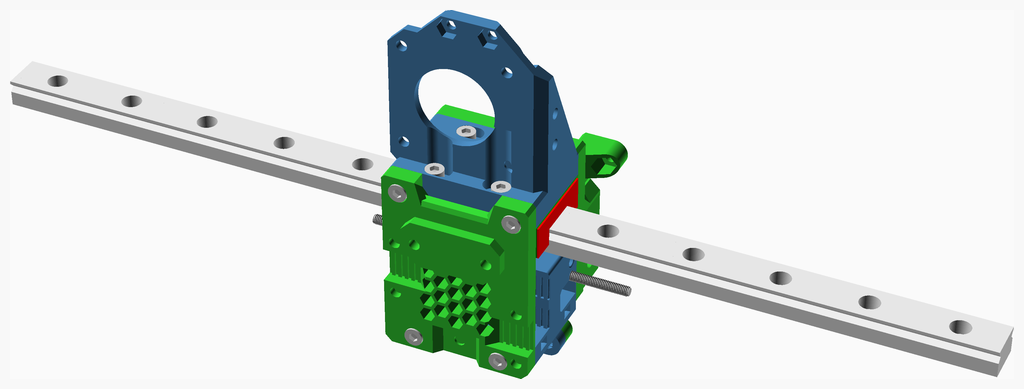
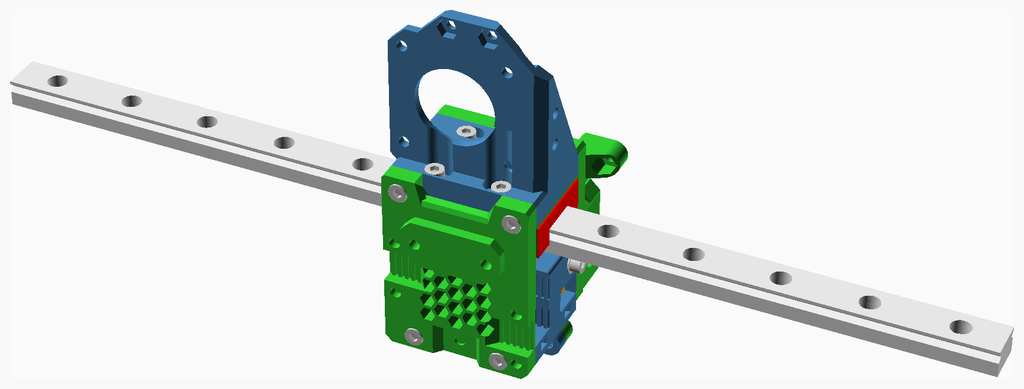
EVA update after build.

Changed region(s): [[0.5312, 0.6478, 0.625, 0.7712], [0.3438, 0.5553, 0.375, 0.5861]]

diff --git a/EVA/readme.md b/EVA/readme.md
@@ -58,7 +58,7 @@ as are all EVA community contributions.
 |   1  |   .  |    1  | EVA_MC_top_mgn12.stl |
 |   1  |   .  |    1  | EVA_MC_top_orbiter_mgn12.stl |
 |   1  |   .  |    1  | EVA_MC_top_titan_mgn12.stl |
-|   1  |   .  |    1  | X_Carriage_Belt_Clamp.stl |
+|   1  |   .  |    1  | X_Carriage_Belt_Clamp_EVA.stl |
 |   2  |   .  |    2  | X_Carriage_Belt_Tensioner.stl |
 |   1  |   .  |    1  | back_corexy.stl |
 |   .  |   1  |    1  | universal_face.stl |
@@ -95,9 +95,9 @@ as are all EVA community contributions.
 | ![EVA_MC_top_mgn12.stl](stls/EVA_MC_top_mgn12.png) | ![EVA_MC_top_orbiter_mgn12.stl](stls/EVA_MC_top_orbiter_mgn12.png) | ![EVA_MC_top_titan_mgn12.stl](stls/EVA_MC_top_titan_mgn12.png) 
 
 
-| 1 x X_Carriage_Belt_Clamp.stl | 2 x X_Carriage_Belt_Tensioner.stl | 1 x back_corexy.stl |
+| 1 x X_Carriage_Belt_Clamp_EVA.stl | 2 x X_Carriage_Belt_Tensioner.stl | 1 x back_corexy.stl |
 |---|---|---|
-| ![X_Carriage_Belt_Clamp.stl](stls/X_Carriage_Belt_Clamp.png) | ![X_Carriage_Belt_Tensioner.stl](stls/X_Carriage_Belt_Tensioner.png) | ![back_corexy.stl](stls/back_corexy.png) 
+| ![X_Carriage_Belt_Clamp_EVA.stl](stls/X_Carriage_Belt_Clamp_EVA.png) | ![X_Carriage_Belt_Tensioner.stl](stls/X_Carriage_Belt_Tensioner.png) | ![back_corexy.stl](stls/back_corexy.png) 
 
 
 
